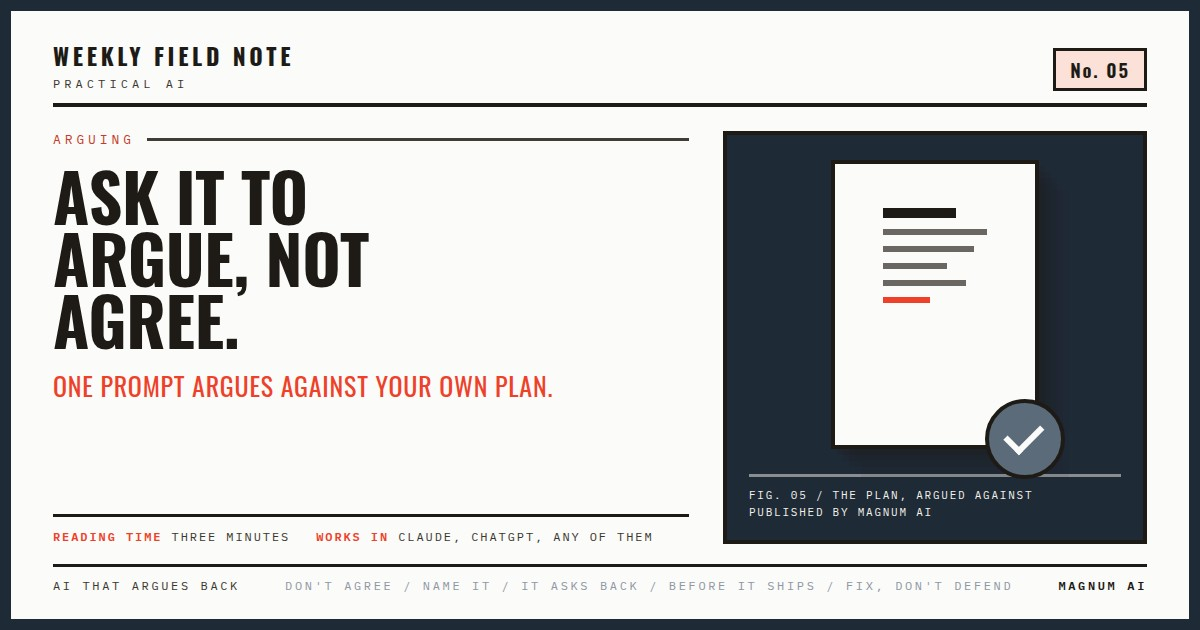
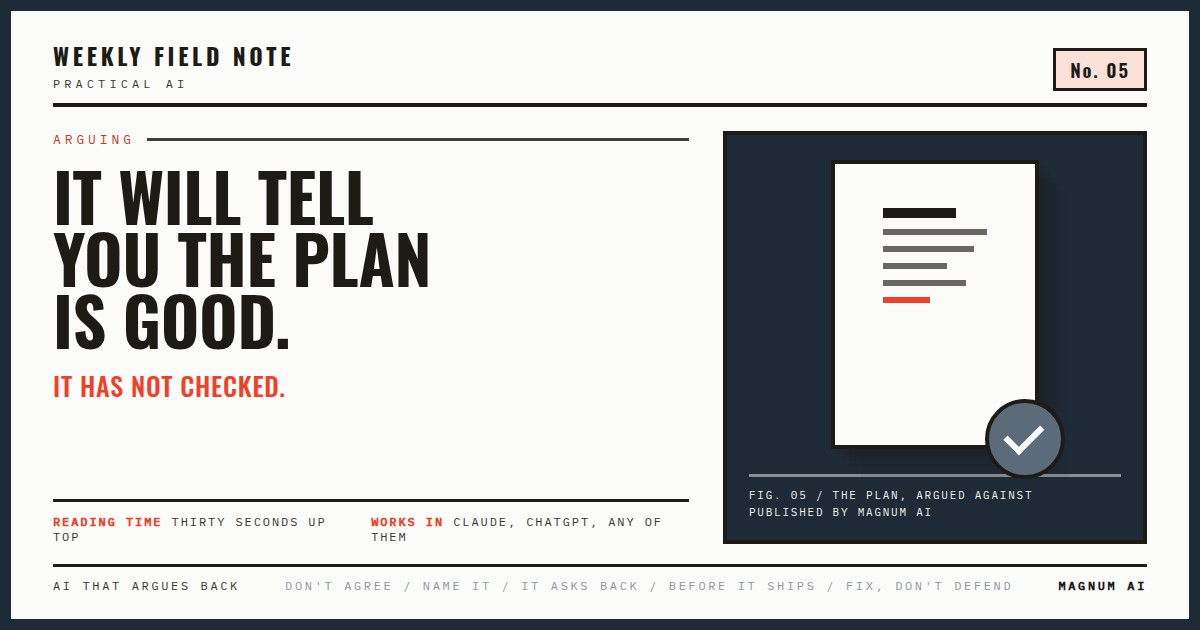
Give Field Note 05 a hook that earns the open
James asked for a thumbnail hook in the Stephen Bartlett register: the
card and the first line have to say why a reader would want this before
they have read a word of the issue.

The BLUF block now opens "It will tell you the plan is good. It has not
checked." with one line under it, "One prompt. Ninety seconds. It finds
the hole before your client does." The share card carries the same words,
so the thing that gets shared and the thing that gets opened match.

An instruction is not a hook. The rule is now written into
templates/field-note-template.html as EDIT · VOICE guidance and into
notes/field-note-prompt.md, which was also reconciled to the live routine
after seven lines had drifted, and pushed back to the trigger.

The BLUF ends at 987px, 1.17 phone screens, 169 words. Field note check
passes on all five issues and the template.

Claude-Session: https://claude.ai/code/session_01CfoVXbacTnMUWxkKs5vmbu

Changed region(s): [[0.0308, 0.2714, 0.4625, 0.6333], [0.0308, 0.7841, 0.555, 0.8746], [0.8942, 0.9048, 0.925, 0.9349]]

diff --git a/templates/field-note-template.html b/templates/field-note-template.html
@@ -689,6 +689,7 @@ pre{
 .bluf h2{font-family:'Oswald','Arial Narrow',sans-serif;font-weight:700;font-size:clamp(26px,6vw,34px);
   line-height:1.02;text-transform:uppercase;color:var(--ink);margin:0 0 16px}
 .bluf h2 em{font-style:normal;color:var(--rust)}
+.bluf .hook{margin:0 0 20px;font-size:17px;line-height:1.45;color:var(--body);font-weight:500}
 .bluf dl{margin:0 0 18px;display:grid;gap:12px 16px}
 .bluf dt{font-family:'IBM Plex Mono',ui-monospace,monospace;font-size:10.5px;letter-spacing:.16em;
   text-transform:uppercase;color:var(--coral-text);margin-bottom:3px}
@@ -726,8 +727,15 @@ pre{
      about 170 words. Three answers and the prompt, nothing else. -->
 <section class="bluf">
   <div class="eyebrow">Weekly Field Note / No. NN / [Theme]</div>
-  <!-- EDIT · VOICE: the same headline as the cover, or a plainer version of it. -->
-  <h2>[The issue in two lines. One coral word.]</h2>
+  <!-- EDIT · VOICE: the hook. Two lines. Name the cost of not doing this,
+       in the reader's own terms, before any instruction. An uncomfortable
+       claim about what is happening to them right now, with the turn on line
+       two. Never an instruction here: "Stop asking X" is not a hook, it is a
+       task. The same hook goes on the share card. -->
+  <h2>[The hook. Two lines, the turn on line two, one coral phrase.]</h2>
+  <!-- EDIT · VOICE: the payoff, in one line. What it costs them to fix it and
+       what they get. A number if there is one. -->
+  <p class="hook">[One line: the cheap specific fix and what it saves.]</p>
   <dl>
     <div>
       <dt>What it is for</dt>

diff --git a/newsletter/field-note-05-arguing.html b/newsletter/field-note-05-arguing.html
@@ -681,6 +681,7 @@ pre{
 .bluf h2{font-family:'Oswald','Arial Narrow',sans-serif;font-weight:700;font-size:clamp(26px,6vw,34px);
   line-height:1.02;text-transform:uppercase;color:var(--ink);margin:0 0 16px}
 .bluf h2 em{font-style:normal;color:var(--rust)}
+.bluf .hook{margin:0 0 20px;font-size:17px;line-height:1.45;color:var(--body);font-weight:500}
 .bluf dl{margin:0 0 18px;display:grid;gap:12px 16px}
 .bluf dt{font-family:'IBM Plex Mono',ui-monospace,monospace;font-size:10.5px;letter-spacing:.16em;
   text-transform:uppercase;color:var(--coral-text);margin-bottom:3px}
@@ -706,7 +707,8 @@ pre{
 <!-- ============ BOTTOM LINE UP FRONT ============ -->
 <section class="bluf">
   <div class="eyebrow">Weekly Field Note / No. 05 / Arguing</div>
-  <h2>Stop asking if the plan works.<br>Make it <em>argue</em> against it.</h2>
+  <h2>It will tell you the plan is good.<br>It has <em>not checked</em>.</h2>
+  <p class="hook">One prompt. Ninety seconds. It finds the hole before your client does.</p>
   <dl>
     <div>
       <dt>What it is for</dt>

diff --git a/newsletter/field-note-05-thumbnail.html b/newsletter/field-note-05-thumbnail.html
@@ -99,8 +99,8 @@ h1{font-family:'Oswald','Arial Narrow','Liberation Sans Narrow',sans-serif;font-
     <div class="left">
       <!-- EDIT 3 · theme, headline, kicker -->
       <div class="eyebrow">Arguing</div>
-      <h1>Ask it to<br>argue, not<br>agree.</h1>
-      <div class="kicker">One prompt argues against your own plan.</div>
+      <h1>It will tell<br>you the plan<br>is good.</h1>
+      <div class="kicker">It has not checked.</div>
       <div class="slug">
         <span><b>Reading time</b> thirty seconds up top</span>
         <span><b>Works in</b> Claude, ChatGPT, any of them</span>

diff --git a/notes/field-note-prompt.md b/notes/field-note-prompt.md
@@ -99,7 +99,7 @@ James runs Magnum AI, a one-person AI consultancy on the Gold Coast serving smal
 
 The members area is the magnum-guides repository, cloned in this environment at /home/user/magnum-guides. Read /home/user/magnum-guides/CLAUDE.md in full before touching anything. It carries eleven hard rules and they are absolute.
 
-The Weekly Field Note is one page of practical AI a week, one idea taught properly, in James's voice. Four issues are live in newsletter/: 01 Clarity, 02 Context, 03 Talking, 04 Cutting. Issue 04 is the shape every new issue follows. Read it in full before you build anything; it is the reference, and templates/field-note-template.html is that shape with the copy taken out and every editable spot marked.
+The Weekly Field Note is one page of practical AI a week, one idea taught properly, in James's voice. Five issues are live in newsletter/: 01 Clarity, 02 Context, 03 Talking, 04 Cutting, 05 Arguing. Issue 05 is the shape every new issue follows, because it is the first with the bottom line up front block. Read it in full before you build anything; it is the reference, and templates/field-note-template.html is that shape with the copy taken out and every editable spot marked.
 
 The Prompt Shelf at prompts/index.html is a cumulative page of copy-ready prompt cards laid out on James's 6 Levers: Role, Context, Constraints, Tone, Format, Output. Every Field Note carries one card from it on page 05. The Sunday Brief is a separate routine that fires Sunday 6am, reads the week's AI newsletters, and writes both the brief and the shelf cards. You never read that inbox. You read what the Sunday Brief left you.
 
@@ -125,8 +125,9 @@ FORMAT
 The issue opens with a bottom line up front block, then seven pages.
 
 0. Bottom line up front. The first phone screen and, for most readers, the
-only one. Under 170 words. Three answers, headed What it is for, Why you would
-use it, How it works, then the prompt itself, then one link down to the rest.
+only one. Under 170 words. The hook, then the payoff line, then three answers
+headed What it is for, Why you would use it, How it works, then the prompt
+itself, then one link down to the rest. The hook rule is under Step 5.
 Added 16 Sep after James read issue 05 on a phone: 1,618 words and nine and a
 half screens, on a page whose cover claimed three minutes. The seven pages
 stay for a laptop or a print. The block does not print.
@@ -143,7 +144,7 @@ The five rule headings, shortened, are the run that repeats in the footer of eve
 OUTPUT
 Work through these steps in order.
 
-Step 1, the window and the number. Gold Coast is Australia/Brisbane, UTC+10, no daylight saving. Compute today's date there; that is the branch date. Read newsletter/ and find the highest existing issue number. Yours is that plus one, two digits. If the highest is 04, you are writing 05.
+Step 1, the window and the number. Gold Coast is Australia/Brisbane, UTC+10, no daylight saving. Compute today's date there; that is the branch date. Read newsletter/ and find the highest existing issue number. Yours is that plus one, two digits. If the highest is 05, you are writing 06.
 
 Step 2, the commission. Use the Google Drive connector to list the Vault folder, id 1o0ERSmQ53qjK2RpnUX1_p_iBBp8ZcP6l, and open the most recent file named sunday-brief-YYYY-MM-DD.md. Read its section headed ## field-note-commission.
 
@@ -157,11 +158,17 @@ Step 3, check the card. Read notes/prompt-review-standards.md and hold the chose
 
 Step 4, the branch. In /home/user/magnum-guides run git fetch origin main, then git checkout -B field-note/YYYY-MM-DD origin/main using the Gold Coast date.
 
-Step 5, build the page. Copy templates/field-note-template.html to newsletter/field-note-NN-slug.html, where slug is one lower-case word naming the theme, matching the style of clarity, context, talking, cutting. Then work through every EDIT comment in the file.
+Step 5, build the page. Copy templates/field-note-template.html to newsletter/field-note-NN-slug.html, where slug is one lower-case word naming the theme, matching the style of clarity, context, talking, cutting, arguing. Then work through every EDIT comment in the file.
 
 Fill completely: the head tags (title, description, canonical, all og and twitter tags, theme-color), the issue number in the top bar and in all seven mastheads, the theme, the contents list of five, the five rules, the whole of page 05 including the prompt byte for byte from the shelf, the three how-to steps, Best for and Not ideal for, the three habits on page 06, the five exercises on page 07, the footer strapline and the five-word run on all seven pages, the page numbers, and the mailto link with this issue's URL percent-encoded.
 
-The bottom line up front block is the part that has to earn the open. Keep it under 170 words, measured. Its prompt is the same shelf card as page 05, reflowed so it wraps on a phone instead of breaking mid-clause; page 05 keeps the authored line breaks. Its headline may be the cover headline or a plainer version of it. Nothing else goes in it.
+The bottom line up front block is the part that has to earn the open. Keep it under 170 words, measured. Its prompt is the same shelf card as page 05, reflowed so it wraps on a phone instead of breaking mid-clause; page 05 keeps the authored line breaks. Nothing else goes in it.
+
+It opens on a hook, and the hook is the whole job. Two lines, the turn on the second, naming the cost of not doing this in the reader's own terms. An uncomfortable claim about what is happening to them right now, not a description of the technique. Then one line under it with the payoff: the cheap specific fix and what it saves, with a number if there is one.
+
+An instruction is not a hook. "Stop asking whether the plan works" is a task and it lands on someone who does not yet care. "It will tell you the plan is good. It has not checked." is a hook, because it names what is going wrong before it asks for anything. Written into the format on 16 Sep at James's instruction: his reference is the way Steven Bartlett titles a Diary of a CEO episode, where the title carries the stake and the payoff and nothing else.
+
+The share card carries the same hook, word for word. It is the only thing a client sees in WhatsApp before deciding whether to open the page, so a card that describes the technique has already lost them.
 
 The reading slug on the cover states the real figures, not a flattering one. Measure the rendered page and write both: the full read and the thirty seconds at the top.
 
@@ -173,9 +180,9 @@ Step 6, the card. Copy templates/field-note-thumbnail.html to newsletter/field-n
 
 Render with Playwright at a true viewport and a clip, never with chromium --headless --screenshot, which scales the page and ships a cropped card. Playwright is global at /opt/node22/lib/node_modules/playwright, CommonJS require, with executablePath: '/opt/pw-browsers/chromium'. Chromium in this sandbox cannot reach Google Fonts, so inline them first: fetch the CSS with a browser user agent, download the latin woff2 files, base64 them into a temp copy of the page, and render that. If the render fails twice, carry on without the image, say so in the email, and expect the check in Step 8 to fail on that one line.
 
-Step 7, the links. Copy the newest card in index.html and the newest in newsletter/index.html, point both at the new issue and its image, and move the issue that was newest into the list of earlier Field Notes on the front page. Only the latest Field Note shows as a card on the front page; the archive holds them all. Change no other card and no other URL.
+Step 7, the links. Copy the newest card in index.html and the newest in newsletter/index.html, point both at the new issue and its image, and move the issue that was newest into the list of earlier Field Notes on the front page. The front page carries the newest four; older issues drop off it by design and live in the archive, which carries them all. Change no other card and no other URL.
 
-Step 8, check. Run node tools/check-field-note.js --shape newsletter/field-note-NN-slug.html. It must print PASS. Then measure the page at 390 wide and confirm the bottom line up front block ends inside about 1.2 screens; if it runs past that, cut words from it, never from the pages below. If it fails, fix what it names and run it again. The only failure you may leave standing is a missing card image from Step 6, and only after two render attempts. Then start a local server with python3 -m http.server and load the page in headless Chromium at 1440, 820 and 390 wide, and confirm there are no JavaScript errors and no sideways scroll. github.io is blocked from this sandbox, so never claim the page is live.
+Step 8, check. Run node tools/check-field-note.js --shape newsletter/field-note-NN-slug.html. It must print PASS. Then measure the page at 390 wide and confirm the bottom line up front block ends inside about 1.2 screens; if it runs past that, cut words from it, never from the pages below. If it fails, fix what it names and run it again. The only failure you may leave standing is a missing card image from Step 6, and only after two render attempts. Then measure the page at 390 wide and confirm the bottom line up front block ends inside about 1.2 screens; if it runs past that, cut words from it, never from the pages below. Then load the page in headless Chromium at 1440, 820 and 390 wide against a local python3 -m http.server, and confirm there are no JavaScript errors and no sideways scroll. github.io is blocked from this sandbox, so never claim the page is live.
 
 Step 9, the log. Add an entry at the top of notes/field-note-log.md under a heading with the branch date: the issue number and theme, whether the idea came from the commission or the fallback, the shelf card it teaches and its id, the result of the card check, and anything you could not finish. One short paragraph, no table.
 
@@ -184,13 +191,14 @@ Step 10, commit and push. Commit with a plain message naming the issue and the c
 Step 11, email James. Use the Gmail connector's send_message to send a plain text email from magnumai.newsletters@gmail.com to james@magnumai.com.au and nobody else. Subject: Field Note NN ready - D Month YYYY. This is a standing scheduled send with pre-approval for this recipient and this recipient only. The email carries, in this order:
 
 THE IDEA: the headline or the card, and whether it came from the Sunday Brief's commission or the shelf fallback.
+UP FRONT: the hook, the payoff line and the three answers from the bottom line up front block, in full, so he can judge the whole issue from the email.
 WHAT IS BUILT: one line per finished part.
 THE LEAD: the first-person story you used and which recorded fact in the repository it came from, so James can correct it if the detail is wrong.
 READ IT HERE: the raw GitHub URL of the page on the branch, so he can read it without cloning anything.
 TO PUBLISH: one line saying he replies go in his chat and it goes live.
 THE CARD: the title and id of the shelf card on page 05.
 CARD CHECK: pass, or the standard it fails and the proposed fix in full.
-CHECK: the last line of tools/check-field-note.js, and anything left failing.
+CHECK: the last line of tools/check-field-note.js, the word count, and the number of phone screens the block occupies.
 BRANCH: the branch name, or what failed.
 ASSUMPTIONS: every choice you made because nobody could be asked, one line each, or "none".
 
